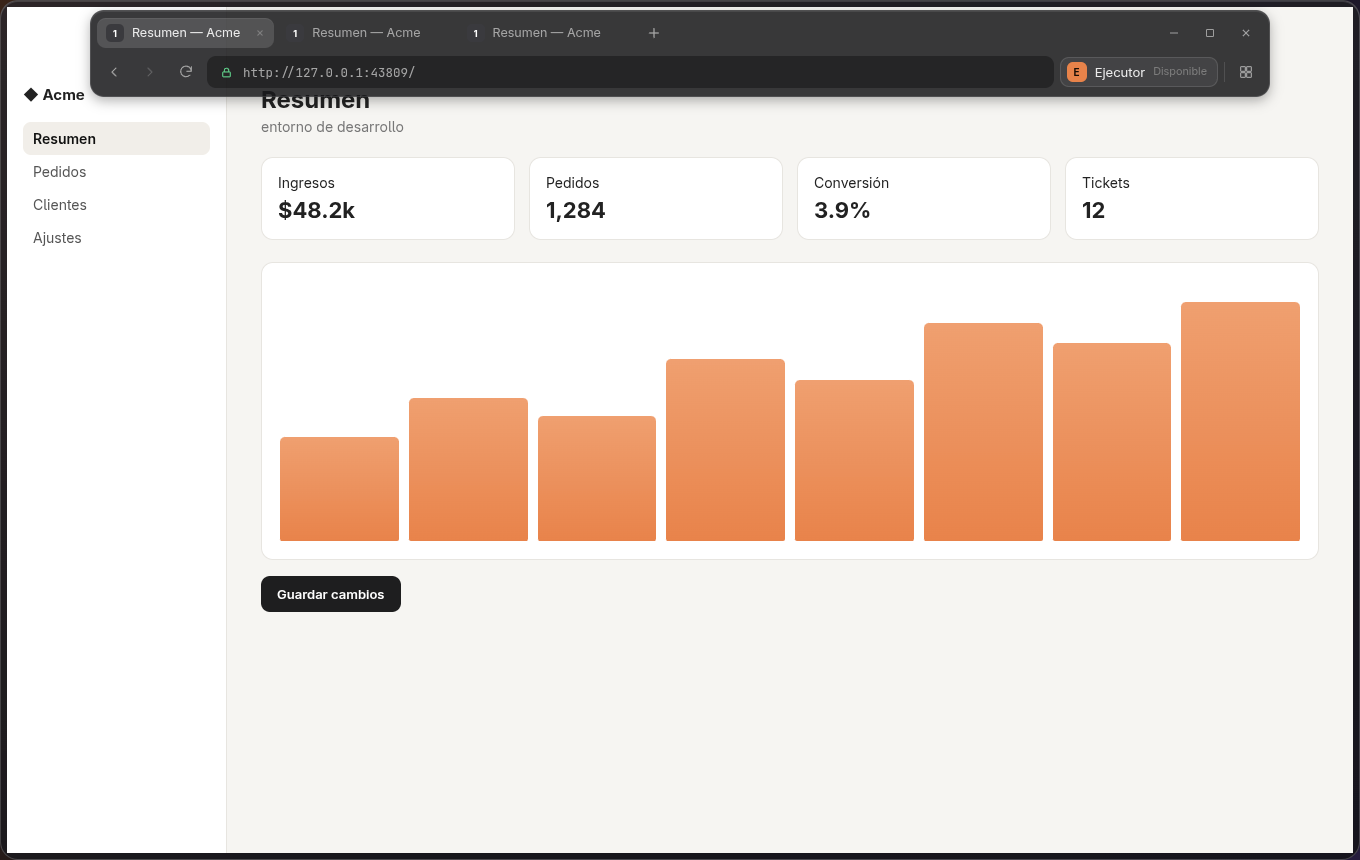
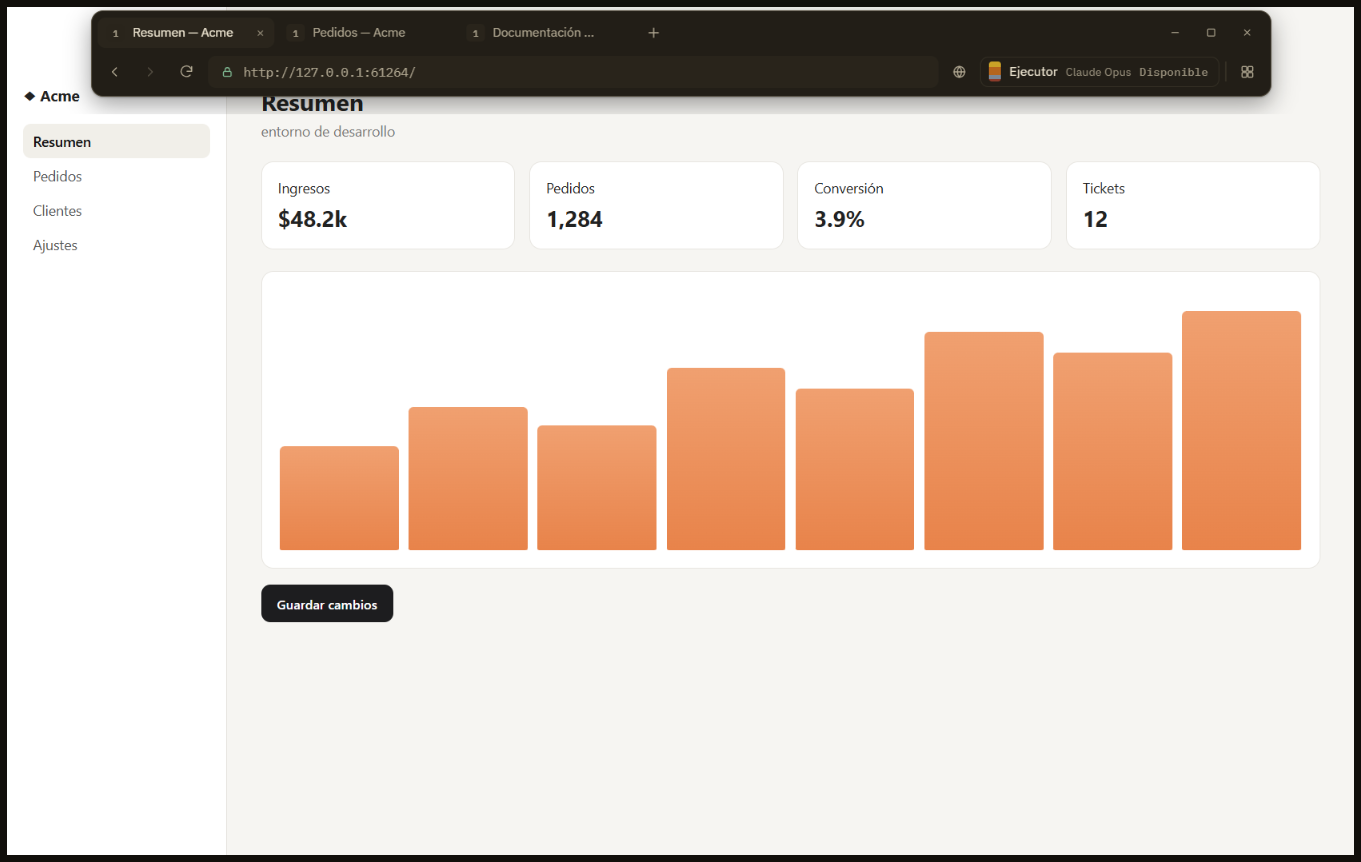
docs(design): refresh the Trex Browser captures with the new look
Regenerates the six shell captures and adds the light "Pizarra" and the "Vino" variants of
the working-agent and agents-centre states. capture.mjs takes TREX_ELECTRON, TREX_BROWSER_HOME,
TREX_CAPTURE_SUFFIX and TREX_CAPTURE_ONLY, uses a flat desktop instead of a gradient and sends
page thumbnails to the centre; the demo page titles its tabs from the URL.

diff --git a/trex-browser/shell/spike/demo-app.html b/trex-browser/shell/spike/demo-app.html
@@ -1,4 +1,4 @@
-<!doctype html><html lang="es"><head><meta charset="utf-8"><title>Resumen — Acme</title><style>
+<!doctype html><html lang="es"><head><meta charset="utf-8"><title>Resumen — Acme</title><script>document.title = ({ '?pedidos': 'Pedidos — Acme', '?docs': 'Documentación — Acme' })[location.search] || document.title;</script><style>
 body{margin:0;font:14px system-ui,sans-serif;background:#f6f5f2;color:#222;display:grid;grid-template-columns:220px 1fr;height:100vh}
 aside{background:#fff;border-right:1px solid #e7e5e0;padding:78px 16px}aside b{display:block;font-size:15px;margin-bottom:18px}
 aside a{display:block;padding:8px 10px;border-radius:8px;color:#555}aside a.on{background:#f1efe9;color:#111;font-weight:600}
